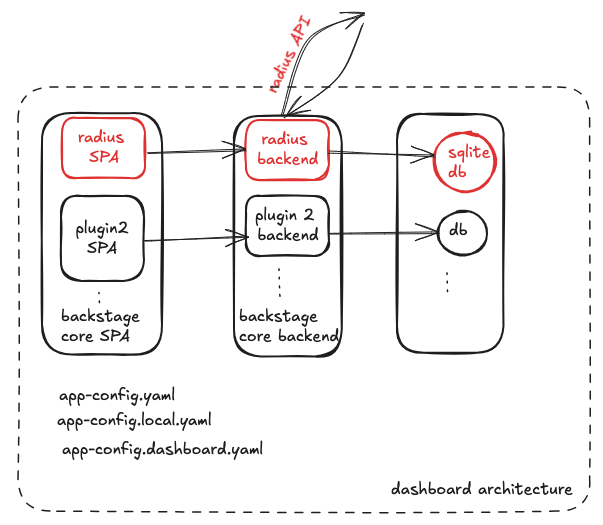
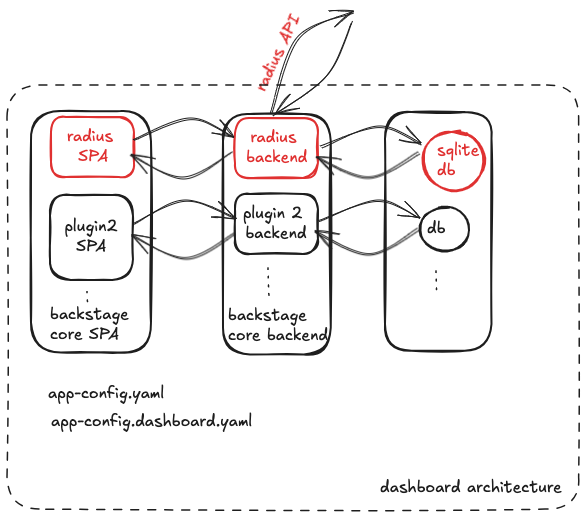
wip

diff --git a/architecture/2024-08-dashboard-component-threat-model.md b/architecture/2024-08-dashboard-component-threat-model.md
@@ -13,48 +13,37 @@ It provides visual and textual representation of user's applications, environmen
 
 | Term                  | Definition      |
 | --------------------- | ----------------------------- |
-| mTLS | Mutual Transport Layer Security (mTLS) allows two parties to authenticate each other during the initial connection of an SSL/TLS handshake. |
-| UCPD | Universal Control Plane Daemon for Radius |
+| UCP | Universal Control Plane for Radius |
 | DoS | Denial of Service |
-| SPA | Single Page Application (SPA): Typically a React application that contains the logic for most user interactions within the React components. SPAs do not require reloading the page from the server during user interactions. |
+| React Application | A web application built using the React library, which allows for the creation of dynamic and interactive user interfaces through a component-based architecture|
 
 ## System Description
 
-The Dashboard component is an SPA built as [Backstage](https://backstage.io/) plugin. It is a client of Radius API. It queries the graph of an application or a list of environment and constructs a visual representation of the response.
+The Dashboard component is an instance of [Backstage](https://backstage.io/). We customize Backstage by installing a Radius plugin and the community-supported Kubernetes plugin. The Dashboard is a client of the Radius API. It queries the graph of an application or a list of environment and constructs a visual representation of the response.
 
 ### Architecture
 
 ![Dashboard Architecture](2024-08-dashboard-component-threat-model/dashboard-arch.png)
 
-Given that the Radius Dashboard is developed as a Backstage plugin, it is essential to first examine the Backstage architecture. Backstage provides a core Single Page Application (SPA), a core backend, and the ability to configure a desired database. The core functionality can be enhanced using plugins.
+Since we are shipping an instance of Backstage, it is essential to first examine the Backstage architecture. Backstage provides a core Single Page Application (SPA), a core backend, and the ability to configure a desired database. The core functionality can be enhanced using plugins.
 
-To deploy the Radius Dashboard as a Backstage plugin, we have implemented a Radius SPA plugin that integrates with the core Backstage SPA, and a Radius backend plugin that integrates with the core Backstage backend. While the backend can technically be accessed directly, our setup restricts this access. We configured the Radius Dashboard App to use a lightweight, in-memory SQLite database, which stores no data and is not accessible directly from outside.
+We have implemented a Radius SPA plugin that integrates with the core Backstage SPA, and a Radius backend plugin that integrates with the core Backstage backend. While the backend can technically be accessed directly, our setup restricts this access. We configured the Radius Dashboard App to use a lightweight, in-memory SQLite database, which stores no data and is not accessible directly from outside.
 
 This application is run as dashboard pod in radius-system namespace along with other Radius pods. 
 
 ### Implementation Details
 
-The Radius Dashboard is developed as a Backstage Plugin, making it dependent on the Backstage framework for both display and backend functionality. For detailed information on Backstage's threat model, refer to the [Backstage Threat Model](https://backstage.io/docs/overview/threat-model/).
+The Radius Dashboard is an instance of Backstage, making it dependent on the Backstage framework for both display and backend functionality. For detailed information on Backstage's threat model, refer to the [Backstage Threat Model](https://backstage.io/docs/overview/threat-model/).
 
-The application uses three config files: app-config.yaml, app-config.local.yaml,
+The application uses two config files: app-config.yaml, 
 app-config.dashboard.yaml. 
 
-app-config.local.yaml has settings for dev environment and merges and overlays the configs in app-config.yaml. 
-app-config.dashboard.yaml has settings for dashboard installation as part of Radius installation. This again merges and overlays the configs in app-config.yaml. 
+app-config.dashboard.yaml has settings for dashboard installation as part of Radius installation. This merges and overlays the configs in app-config.yaml. 
 
 We have used these files to configure our application to
 
 1. allow communication using Radius API. The data for rendering Radius visuals is obtained by calling different Radius APIs. 
 
-```
-app-config.local.yaml:
-backend:
-  # Allow the backend to make requests to the local Kubernetes cluster.
-  reading:
-    allow:
-      - host: localhost:8001
-      - host: 127.0.0.1:8001
-```
 ```
 app-config.dashboard.yaml
 
@@ -88,7 +77,7 @@ backend:
   listen: ':7007'
 ```
 
-1.  use sqlite DB. This is light weight, not accessible to users directly and contains no useful information.
+3.  use sqlite DB. This is light weight, not accessible to users directly and contains no useful information.
   
 ```
 app-config.yaml :
@@ -122,25 +111,19 @@ The primary user of Dashboard is browser. At present, we dont have any other Bac
 We have a few different trust boundaries for the Dashboard component:
 
 - **Kubernetes Cluster**: The overall environment where the Dashboard component operates and serves clients.
-- **Namespaces within the Cluster**: Logical partitions within the cluster to separate and isolate resources and workloads.
+- **Namespaces within the Cluster**: Logical partitions within the cluster to separate and isolate resources and workloads. 
 
-#### Key Points of Namespaces
+The Dashboard component lives inside the `radius-system` namespace in the Kubernetes cluster where it is installed. UCP also resides within the same namespace.
 
-1. **Isolation of Resources and Workloads**: Different namespaces separate and isolate resources and workloads within the Kubernetes cluster.
-2. **Access Controls and Permissions**: Access controls and other permissions are implemented to manage interactions between namespaces.
-3. **Separation of Concerns**: Namespaces support the separation of concerns by allowing different teams or applications to manage their resources independently, reducing the risk of configuration errors and unauthorized changes.
+Namespaces within Kubernetes can help set Role-Based Access Control (RBAC) policies.
 
-The Dashboard component lives inside the `radius-system` namespace in the Kubernetes cluster where it is installed. UCPD also resides within the same namespace.
+The webapp portal is accessible to various configured users. Summarizing from [Backstage threat model](https://backstage.io/docs/overview/threat-model/), these users could belong to one of these trust levels:
 
-The webapp portal is accessible to various configured users. Quoting from Backstage threat model, these users could belong to one of these trust levels:
+**Internal users** and **Operators**:** are trusted team members who use or maintain an instance of Backstage.
 
-**An internal user** is an authenticated user that generally belongs to the organization of a particular Backstage deployment. These users are trusted to the extent that they are not expected to compromise the availability of Backstage, but they are not trusted to not compromise data confidentiality or integrity.
+**A builder** is an internal or external code contributor and end up having a similar level of access as operators. 
 
-**An operator**:** is a user responsible for configuring and maintaining an instance of Backstage. Operators are fully trusted, since they operate the system and database and therefore have root access to the host system. Additional measures can be taken by adopters of Backstage in order to restrict or observe the access of this group, but that falls outside of the current scope of Backstage.
-
-**A builder** is an internal or external code contributor and end up having a similar level of access as operators. When installing Backstage plugins you should vet them just like any other package from an external source. While it’s possible to limit the impact of for example a supply chain attack by splitting the deployment into separate services with different plugins, the Backstage project itself does not aim to prevent these kinds of attacks or in any other way sandbox or limit the access of plugins.
-
-**An external user** is a user that does not belong to the other two groups, for example a malicious actor outside of the organization. The security model of Backstage currently assumes that this group does not have any direct access to Backstage, and it is the responsibility of each adopter of Backstage to make sure this is the case.
+**An external user** is a user that does not belong to the above two groups, for example a malicious actor outside of the organization. The security model of Backstage currently assumes that this group does not have any direct access to Backstage, and it is the responsibility of each adopter of Backstage to make sure this is the case.
 
 Users that are signed-in in to Backstage generally have full access to all information and actions. If more fine-grained control is required, the permissions system should be enabled and configured to restrict access as necessary.
 
@@ -191,6 +174,8 @@ Due to the volume of requests Dashboard as well as the UCP, AppCore-RP component
    
 **Mitigation**:
 
+Add Radius documentation to capture the below mitigation steps if and when the user chooses to make Backstage available for multiple users.
+
 1. Access to Dashboard should be provided to trusted users.  The [Backstage  permissions system](https://backstage.io/docs/permissions/overview) should be enabled and configured to restrict access as necessary.
    
 **Status**:
@@ -215,6 +200,8 @@ A malicious user can utilize the app graph to stage effective attack by targetin
 
 **Mitigation**:
 
+Add Radius documentation to capture the below mitigation steps if and when the user chooses to make Backstage available for multiple users.
+
 1. Access to Dashboard portal should be provided to trusted users. While we dont expose any secrets in db, users should still enable authentication and secure access to data based on roles.
    
 **Status**:
@@ -230,7 +217,7 @@ Active. Operators are expected to configure the [Backstage  permissions system](
 #### Threat 3: Spoofing dashboard service-account can cause DoS 
 **Description**
 
-If an unauthorized user or malicious actor gtampers with cluster,
+If an unauthorized user or malicious actor tampers with cluster,
 he can create services with dashboard service-account to send Radius API requests. 
 
 **Impact**:
@@ -255,7 +242,7 @@ rules:
 
 **Mitigation**:
 
-Tampering with the dashboard service-account or creating malicious services would require access to modify the radius-system namespace. Our threat model assumes that the operator has limited access to the radius-system namespace using Kubernetes' existing RBAC mechanism.
+Tampering with the dashboard service-account or creating malicious services would require access to modify the radius-system namespace. Our threat model assumes that the operator has limited access to the radius-system namespace using Kubernetes' existing RBAC mechanism. We should also revisit the threat model and provide a more robust set of authorization controls when granular authorization policies are added to Radius.
    
 **Status**:
 
@@ -271,7 +258,7 @@ If an unauthorized user or malicious actor gathers data used to construct the pa
 
 **Mitigation**:
 
-1. Dashboard is not intended to be public-facing. If a decision is taken to make it public, it should be configured to use HTTPS and The [Backstage  permissions system](https://backstage.io/docs/permissions/overview) should be enabled and configured to restrict access as necessary.
+1. Dashboard is not intended to be public-facing. If a decision is taken to make it public, it should be configured to use HTTPS and The [Backstage  permissions system](https://backstage.io/docs/permissions/overview) should be enabled and configured to restrict access as necessary. We should capture this as a neccessary step if user chooses to expose Dashboard over internet.
    
 **Status**:
 
@@ -283,9 +270,18 @@ they should configure Dashboard to use HTTPS if it is public-facing.
 
 ## Action Items
 
-1. Dashboard should be accessed only on HTTPS if it should be available outside cluster. Currently, we can access the application on http but since we only access the application on localhost using =kubernetes port-forward, this is OK. 
- 
-2. Enable authentication on Dashboard. This could be tied to RBAC support on Radius, since we might want the same users to be allowed dashboard logins by default with permissions configured using Backstage permission system.
+
+1. We should provide Radius documentation that captures below guidelines to be followed if a customer chooses to allow Dashboard access to multiple users and/ or make dashboard public facing. 
+
+   1. Dashboard should be accessed only on HTTPS if it should be available outside cluster. Currently, we can access the application on http but since we only access the application on localhost using kubernetes port-forward, this is OK. 
+    
+   2. Enable authentication on Dashboard. This could be tied to RBAC support on Radius, since we might want the same users to be allowed dashboard logins by default with permissions configured using Backstage permission system.
+
+   3. The Backstage permissions system should be enabled and configured to restrict access as necessary. 
+   
+[#105](https://github.com/radius-project/dashboard/issues/105) logged to capture this effort.
+   
+1. Revisit threat model when we have RBAC support in Radius and fine tune permissions on Dashboard resources.
 
 ## Review Notes
 
